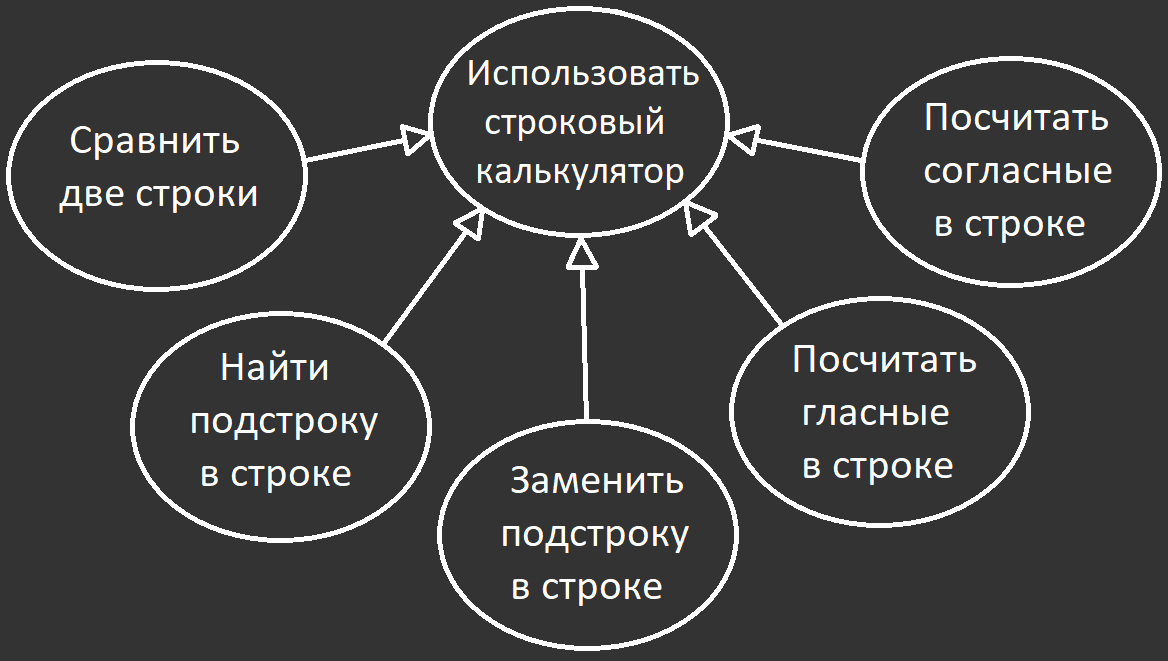
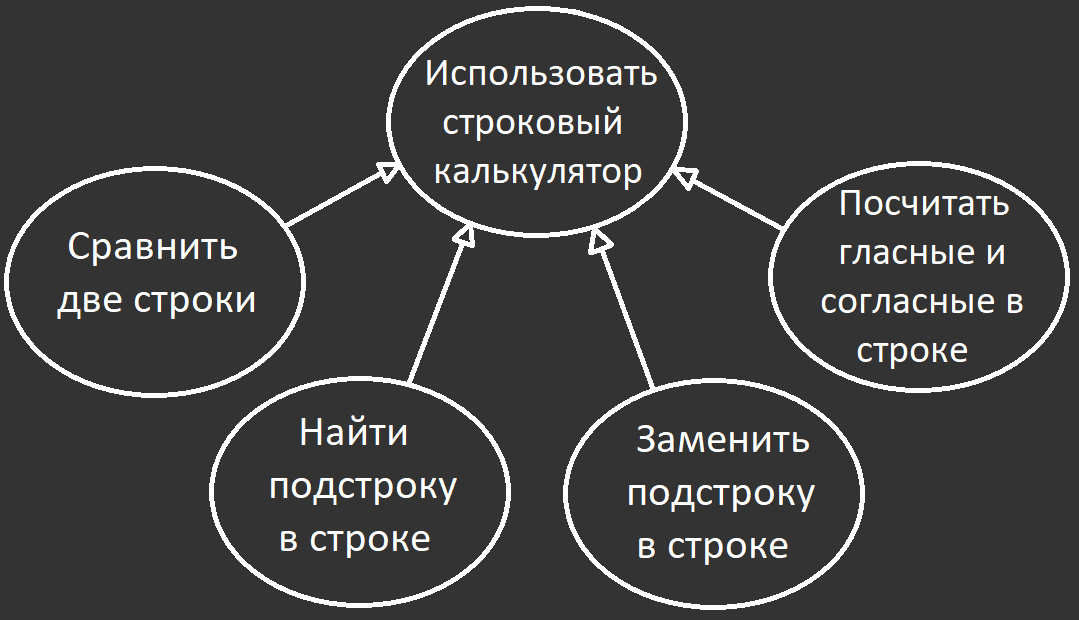
Незначительные изменения

diff --git a/emap.html b/emap.html
@@ -74,7 +74,7 @@
                         </li>
                         <li>
                             <ul>Тихомиров Илья
-                                <li class="in-process">Реализовал напоминалку "Возьми зонтик"</li>
+                                <li class="in-process">Реализовал напоминалку</li>
                             </ul>
                         </li>
                         <li>
@@ -104,7 +104,7 @@
                         </tr>
 
                         <tr>
-                            <td class="subject" rowspan="5">Строковый калькулятор</td>
+                            <td class="subject" rowspan="4">Строковый калькулятор</td>
                             <td class="done">#2-001</td>
                             <td>Как Пользователь, я хочу использовать «строковый калькулятор» для сравнения строк.</td>
                         </tr>
@@ -118,11 +118,7 @@
                         </tr>
                         <tr>
                             <td class="done">#2-004</td>
-                            <td>Как Пользователь, я хочу использовать «строковый калькулятор» для подсчёта гласных в строке.</td>
-                        </tr>
-                        <tr>
-                            <td class="in-process">#2-005</td>
-                            <td>Как Пользователь, я хочу использовать «строковый калькулятор» для подсчёта согласных в строке.</td>
+                            <td>Как Пользователь, я хочу использовать «строковый калькулятор» для подсчёта гласных и согласных в строке.</td>
                         </tr>
                         
                         <tr>
@@ -150,7 +146,7 @@
                         <tr>
                             <td class="subject">Напоминалка</td>
                             <td class="in-process">#6-001</td>
-                            <td>Как Пользователь, я хочу использовать «напоминалку "Возьми зонтик"», чтобы не забыть взять зонтик.</td>
+                            <td>Как Пользователь, я хочу использовать «напоминалку», чтобы не забыть сделать что-нибудь в будущем.</td>
                         </tr>
                         
                         <tr>

diff --git a/styles.css b/styles.css
@@ -184,13 +184,13 @@ p#start-data {
 #num-calc-diagram img,
 #str-calc-diagram img,
 #clock-diagram img,
-#timetable-diagram img {
+#timetable-diagram img,
+#reminder-diagram img {
     width: 425px;
 }
 #bin-dec-converter-diagram img,
-#caesar-cipher-diagram img,
-#reminder-diagram img {
-    width: 250px;
+#caesar-cipher-diagram img {
+    width: 300px;
 }
 
 #project-history table {
